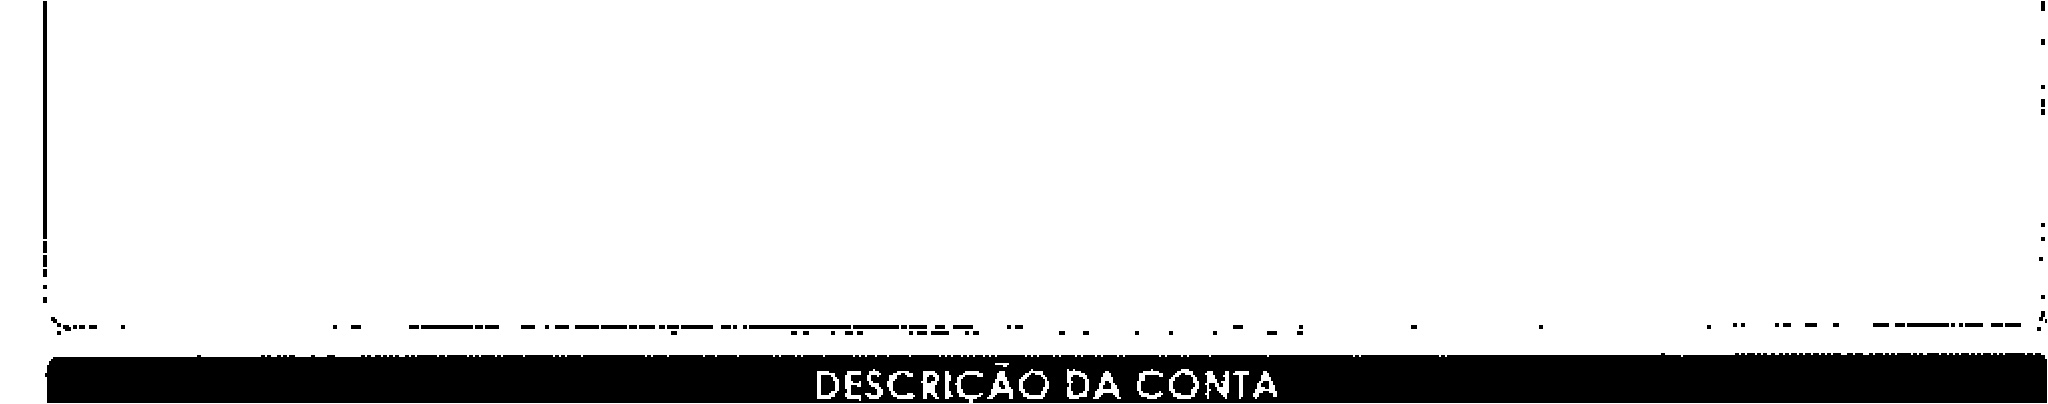
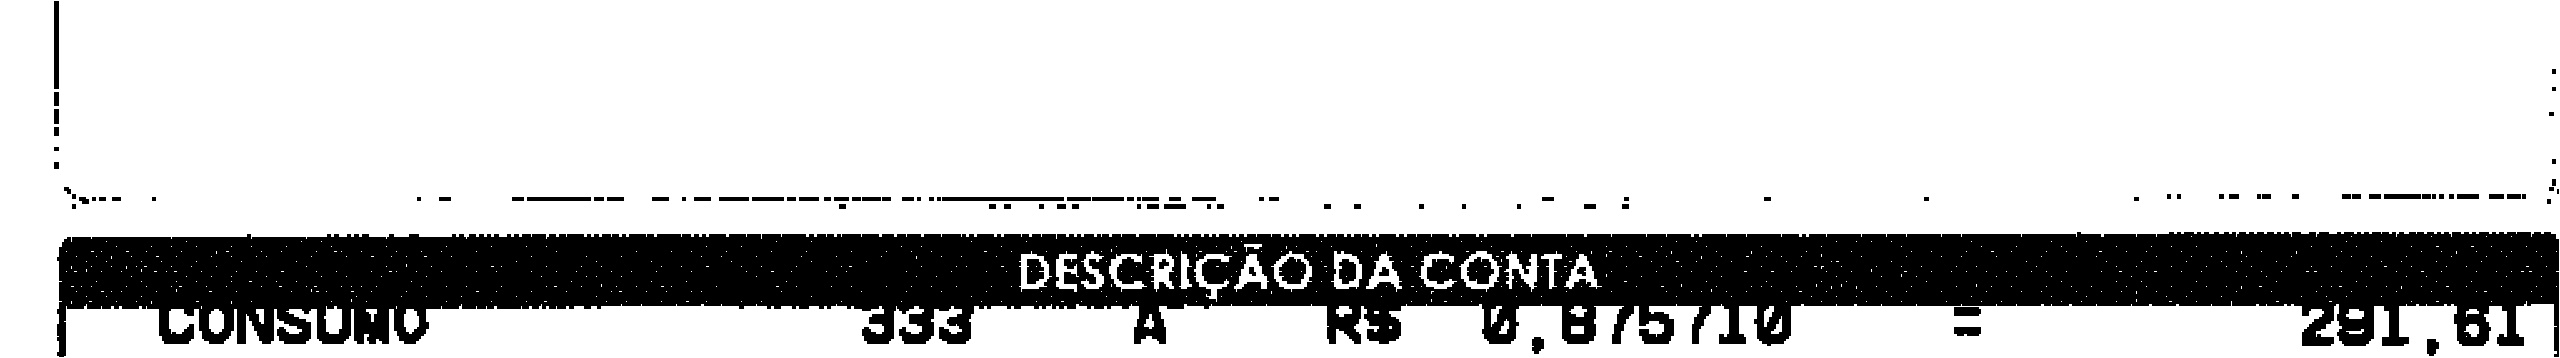
Update OCR regions and enhance bill parsing logic
- Added new region for "topValues" in test-scan-pipeline.mjs to improve reading extraction.
- Adjusted parameters for "cosip" region in both test-scan-pipeline.mjs and billImport.js for better OCR accuracy.
- Enhanced inferCosip function in billParser.js to include text extraction for improved total estimation.
- Updated error handling in billParser.js to provide clearer feedback on expected values during parsing.

diff --git a/src/lib/billParser.js b/src/lib/billParser.js
@@ -672,16 +672,39 @@ function buildFieldTrust(parsed) {
   return trust;
 }
 
-function inferCosip(totalHint, consumptionHint, energyCharge) {
-  if (totalHint == null) return null;
-  if (energyCharge != null) {
-    const inferred = Number((totalHint - energyCharge).toFixed(2));
-    if (inferred >= 0 && inferred <= 500) return inferred;
+function extractMoneyAmounts(text) {
+  const normalized = normalizeText(text);
+  const out = [];
+  for (const match of normalized.matchAll(/\b(\d{2,4})[.,\s]+(\d{2})\b/g)) {
+    const money = parseBrokenMoney(match[1], match[2]);
+    if (money != null) out.push(money);
   }
+  return out;
+}
+
+function inferCosip(totalHint, consumptionHint, energyCharge, text = "") {
+  if (totalHint != null) {
+    if (energyCharge != null) {
+      const inferred = Number((totalHint - energyCharge).toFixed(2));
+      if (inferred >= 0 && inferred <= 500) return inferred;
+    }
+    if (consumptionHint != null && consumptionHint > 0) {
+      const energy = consumptionHint * AMAZONAS_DEFAULT_RATE;
+      const inferred = Number((totalHint - energy).toFixed(2));
+      if (inferred >= 0 && inferred <= 500) return inferred;
+    }
+  }
+
+  // Sem total explícito: procura valores R$ e estima total ≈ energia + COSIP.
   if (consumptionHint != null && consumptionHint > 0) {
     const energy = consumptionHint * AMAZONAS_DEFAULT_RATE;
-    const inferred = Number((totalHint - energy).toFixed(2));
-    if (inferred >= 0 && inferred <= 500) return inferred;
+    const monies = extractMoneyAmounts(text);
+    const total = monies.find((m) => m > energy + 5 && m < energy + 400)
+      ?? monies.find((m) => Math.abs(m - (energy + 30)) <= 3);
+    if (total != null) {
+      const inferred = Number((total - energy).toFixed(2));
+      if (inferred >= 0 && inferred <= 500) return inferred;
+    }
   }
   return null;
 }
@@ -748,7 +771,7 @@ export function parseBillText(ocrText) {
   };
 
   if (raw.extras == null) {
-    raw.extras = inferCosip(totalHint, raw.consumptionHint, energyCharge);
+    raw.extras = inferCosip(totalHint, raw.consumptionHint, energyCharge, text);
   }
 
   completeReadings(raw);
@@ -823,7 +846,12 @@ export function mergeParsedResults(results, combinedText = "") {
   }
 
   if (merged.extras == null) {
-    merged.extras = inferCosip(merged.totalHint, merged.consumptionHint, null);
+    merged.extras = inferCosip(
+      merged.totalHint,
+      merged.consumptionHint,
+      null,
+      combinedText || merged.rawPreview || "",
+    );
   }
 
   completeReadings(merged);

diff --git a/src/lib/billImport.js b/src/lib/billImport.js
@@ -203,11 +203,13 @@ async function recognizePasses(baseCanvas, worker, onProgress) {
   const regions = [
     { label: "página", y0: 0, y1: 1, hardBin: false, thicken: 1, scale: 1, psm: PSM.AUTO },
     { label: "cabeçalho", y0: 0.03, y1: 0.18, hardBin: false, thicken: 0, scale: 2, psm: PSM.SINGLE_BLOCK },
+    { label: "valores do topo", y0: 0.08, y1: 0.16, hardBin: false, thicken: 0, scale: 2.5, psm: PSM.SINGLE_LINE },
     { label: "cabeçalho nítido", y0: 0.03, y1: 0.18, hardBin: true, thicken: 1, scale: 2.2, psm: PSM.SINGLE_BLOCK },
     { label: "leituras", y0: 0.55, y1: 0.78, hardBin: true, thicken: 1, scale: 2.5, psm: PSM.SINGLE_BLOCK },
     { label: "leituras soft", y0: 0.55, y1: 0.78, hardBin: false, thicken: 0, scale: 2.2, psm: PSM.SPARSE_TEXT },
     { label: "leituras dígitos", y0: 0.58, y1: 0.72, hardBin: true, thicken: 1, scale: 3, psm: PSM.SINGLE_LINE },
-    { label: "COSIP", y0: 0.68, y1: 0.92, hardBin: true, thicken: 1, scale: 2, psm: PSM.SINGLE_BLOCK },
+    { label: "descrição", y0: 0.72, y1: 0.95, hardBin: false, thicken: 1, scale: 2.2, psm: PSM.SPARSE_TEXT },
+    { label: "COSIP", y0: 0.78, y1: 0.95, hardBin: true, thicken: 1, scale: 2.5, psm: PSM.SINGLE_BLOCK },
   ];
 
   const texts = [];
